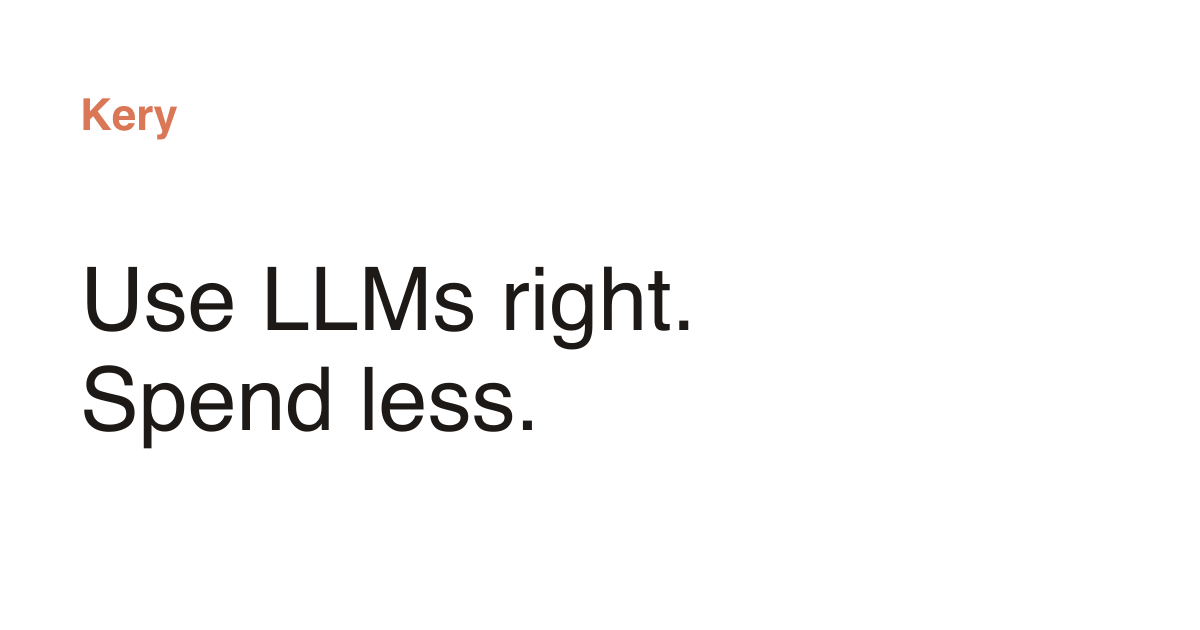
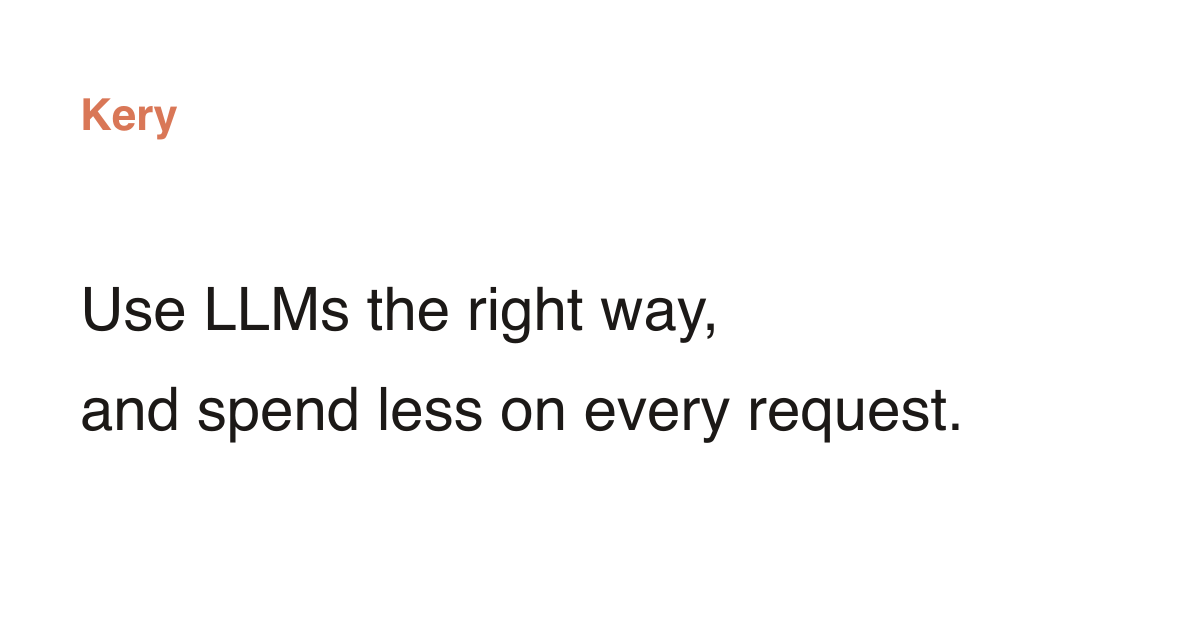
Use a longer, smaller hero headline

Changed region(s): [[0.0617, 0.573, 0.8017, 0.6937], [0.0617, 0.4222, 0.6167, 0.573]]

diff --git a/src/components/sections/Hero.tsx b/src/components/sections/Hero.tsx
@@ -1,5 +1,4 @@
 import { useEffect, useState } from 'react';
-import { Sparkles } from 'lucide-react';
 import { Button } from '@/components/ui/button';
 import { hero } from '@/config/site';
 import BillChart from './BillChart';
@@ -29,15 +28,15 @@ export default function Hero() {
       <div className="relative mx-auto max-w-6xl px-4 pt-20 pb-80 sm:pt-28">
         <div className="mx-auto max-w-5xl text-center">
           {/* The name stays fixed for screen readers while the visible word rotates. */}
-          <h1 aria-label={hero.headline} className="text-[9.6vw] leading-tight sm:text-5xl md:text-7xl">
+          <h1 aria-label={hero.headline} className="text-[6.6vw] leading-tight sm:text-4xl md:text-5xl">
             <span aria-hidden="true" className="block whitespace-nowrap">
-              Use{' '}
+              {hero.headlineStart}{' '}
               <span
                 key={current.word}
                 className="inline-flex items-center gap-[0.15em] align-bottom animate-in fade-in slide-in-from-bottom-3 duration-500"
                 style={{ color: current.color }}
               >
-                {current.icon ? (
+                {current.icon && (
                   <span
                     className="size-[0.8em] bg-current"
                     style={{
@@ -47,15 +46,13 @@ export default function Hero() {
                       maskPosition: 'center',
                     }}
                   />
-                ) : (
-                  <Sparkles className="size-[0.8em]" />
                 )}
                 {current.word}
               </span>{' '}
-              right.
+              {hero.headlineEnd}
             </span>
-            <span aria-hidden="true" className="block">
-              Spend less.
+            <span aria-hidden="true" className="block whitespace-nowrap">
+              {hero.headlineSecondLine}
             </span>
           </h1>
           <p className="mx-auto mt-6 max-w-3xl text-lg text-balance text-muted-foreground sm:text-xl">{hero.subhead}</p>

diff --git a/src/config/site.ts b/src/config/site.ts
@@ -9,14 +9,17 @@ export const SITE_NAME = 'Kery';
 export const SITE_ORIGIN = 'https://kery.dev';
 
 export const seo = {
-  title: 'Kery — Use LLMs right, spend less',
+  title: 'Kery — Use LLMs the right way and spend less',
   description:
     'Kery finds the cost and speed gains across your entire AI stack, and ships them without compromising quality. Book a free cost audit.',
 };
 
 export const hero = {
-  headline: 'Use LLMs right. Spend less.',
-  /** The word that rotates in "Use ___ right." The dot chart fades to each colour and reshuffles. */
+  headline: 'Use LLMs the right way, and spend less on every request.',
+  headlineStart: 'Use',
+  headlineEnd: 'the right way,',
+  headlineSecondLine: 'and spend less on every request.',
+  /** The word that rotates in "Use ___ the right way," The dot chart fades to each colour and reshuffles. */
   rotation: [
     { word: 'LLMs', color: '#1c1917' },
     { icon: '/icons/anthropic.svg', word: 'Anthropic', color: '#d97757' },
